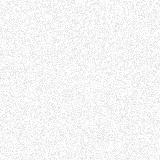
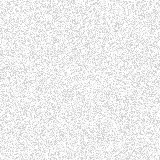
Essai : menu en index typographique, grain renforcé
La barre perd sa capsule : une bande de papier pleine largeur fermée par un
filet, le nom à gauche, les pages numérotées à droite, la page courante à
l'accent. Le grain est plus marqué.

diff --git a/src/styles/swiss.css b/src/styles/swiss.css
@@ -2696,3 +2696,81 @@
 .swiss .plate-hole {
   box-shadow: none;
 }
+
+/* Essai — menu en index typographique. La capsule disparaît : la barre est
+   une bande de papier pleine largeur, fermée par un filet, avec le nom à
+   gauche et les pages numérotées à droite. La page courante prend l'accent,
+   sans pastille. Sur téléphone, le signe du menu ouvre toujours l'affiche. */
+.swiss body > header[data-swiss-header] {
+  background-color: var(--paper);
+  background-image: url("/images/grain-encre.png");
+  background-size: 160px 160px;
+}
+
+.swiss[data-swiss-theme="dark"] body > header[data-swiss-header] {
+  background-image: url("/images/grain-papier.png");
+}
+
+.swiss [data-swiss-header] .header-plate,
+.swiss [data-swiss-header] .nav-pill {
+  display: none;
+}
+
+.swiss [data-swiss-header] .header-pill {
+  background-color: transparent;
+  -webkit-backdrop-filter: none;
+  backdrop-filter: none;
+  border: 0;
+  border-bottom: var(--rule-barre, 1.5px) solid var(--rule);
+  border-radius: 0;
+  padding: 14px 0 16px;
+}
+
+.swiss [data-swiss-header] [data-nav] {
+  counter-reset: page;
+  gap: 26px;
+}
+
+.swiss [data-swiss-header] [data-nav-link] {
+  counter-increment: page;
+  height: auto;
+  padding: 0;
+  border-radius: 0;
+  color: var(--ink);
+}
+
+.swiss [data-swiss-header] [data-nav-link]::before {
+  content: "0" counter(page);
+  margin-right: 0.55em;
+  color: var(--ink-soft);
+}
+
+.swiss [data-swiss-header] [data-nav-link].is-lit,
+.swiss [data-swiss-header] [data-nav-link][aria-current="page"],
+.swiss [data-swiss-header] [data-nav-link][aria-current="page"]::before,
+.swiss [data-swiss-header] [data-nav-link]:hover,
+.swiss [data-swiss-header] [data-nav-link]:hover::before {
+  color: var(--accent-texte);
+}
+
+.swiss [data-swiss-header] a[href^="mailto:"] {
+  height: auto;
+  padding: 0;
+  border: 0;
+  border-radius: 0;
+  background: none;
+  margin-left: 10px;
+}
+
+.swiss [data-swiss-header] a[href^="mailto:"]:hover {
+  background: none;
+  color: var(--accent-texte);
+}
+
+.swiss.menu-open body > header[data-swiss-header] {
+  background: transparent;
+}
+
+.swiss.menu-open [data-swiss-header] .header-pill {
+  border-bottom-color: transparent;
+}
